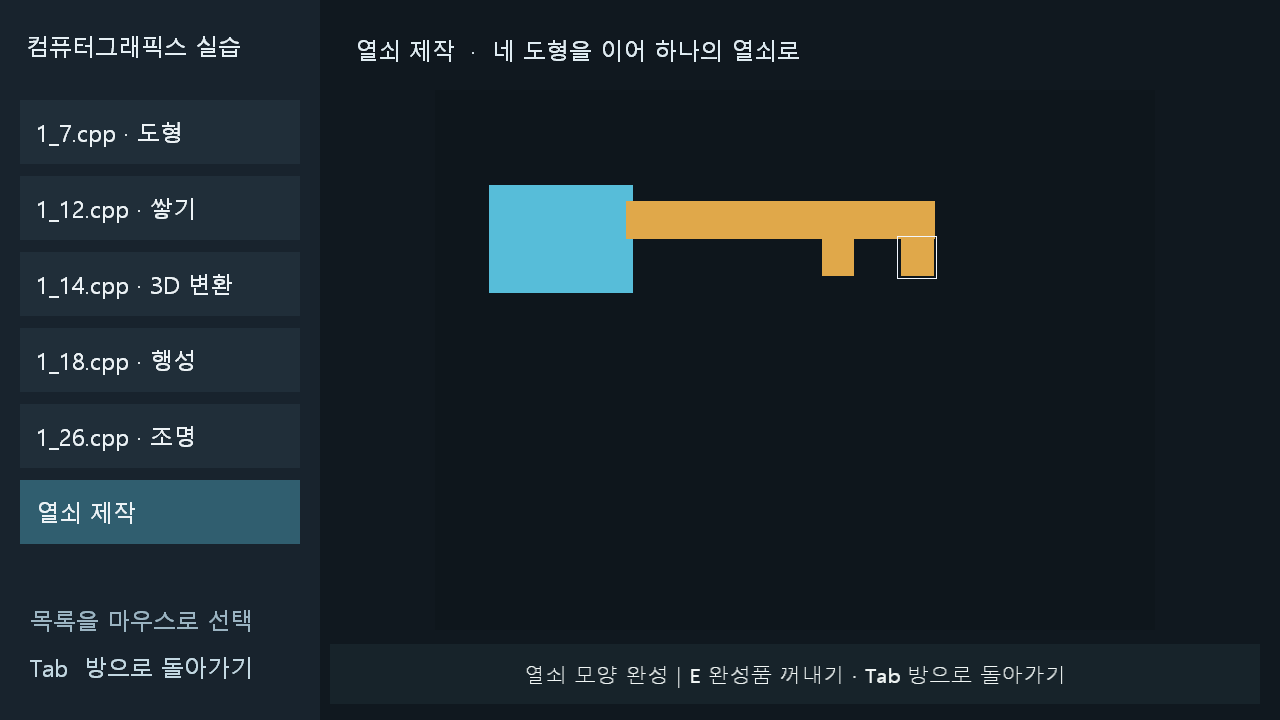
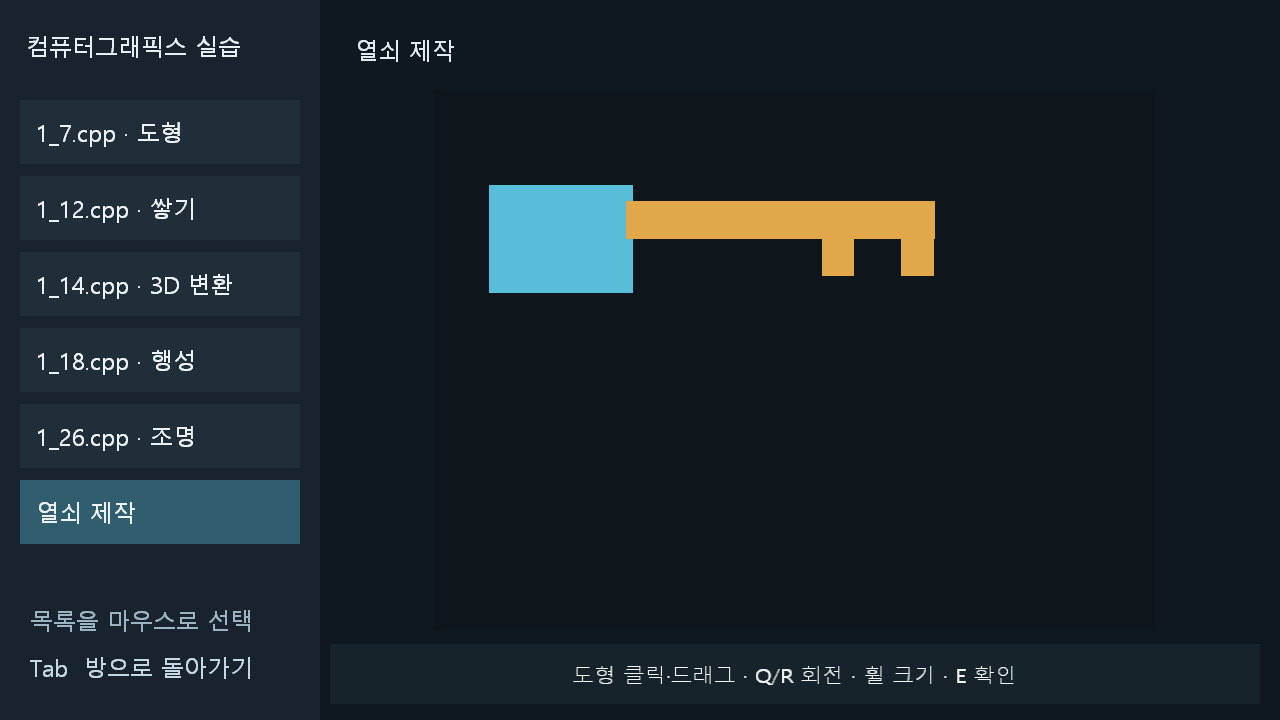
refactor: 내 방 퍼즐 설명과 정답 가이드 표시 제거

Changed region(s): [[0.4062, 0.9167, 0.8125, 0.9472], [0.375, 0.0611, 0.625, 0.0917]]

diff --git a/rooms/home/ComputerScreen.cpp b/rooms/home/ComputerScreen.cpp
@@ -189,7 +189,7 @@ GLuint workspaceTexture(int selected) {
     const auto text=[&](const wchar_t* value,RECT rect,COLORREF color) { SetTextColor(dc,color); DrawTextW(dc,value,-1,&rect,DT_VCENTER|DT_SINGLELINE|DT_NOPREFIX); };
     text(L"컴퓨터그래픽스 실습",{26,22,310,70},RGB(229,239,244));
     constexpr const wchar_t* names[6]{L"1_7.cpp · 도형",L"1_12.cpp · 쌓기",L"1_14.cpp · 3D 변환",L"1_18.cpp · 행성",L"1_26.cpp · 조명",L"열쇠 제작"};
-    constexpr const wchar_t* captions[6]{L"실습 1_7  ·  점 / 선 / 삼각형 / 사각형",L"실습 1_12  ·  움직이는 사각형 맞추기",L"실습 1_14  ·  이동 / 회전 / 깊이",L"실습 1_18  ·  부모와 자식의 변환",L"실습 1_26  ·  Phong 조명과 광원 공전",L"열쇠 제작  ·  네 도형을 이어 하나의 열쇠로"};
+    constexpr const wchar_t* captions[6]{L"실습 1_7  ·  점 / 선 / 삼각형 / 사각형",L"실습 1_12  ·  움직이는 사각형 맞추기",L"실습 1_14  ·  이동 / 회전 / 깊이",L"실습 1_18  ·  부모와 자식의 변환",L"실습 1_26  ·  Phong 조명과 광원 공전",L"열쇠 제작"};
     for(int i=0;i<6;++i) {
         fill({20,100+i*76,300,164+i*76},i==selected?RGB(48,94,111):RGB(32,46,57));
         text(names[i],{36,100+i*76,294,164+i*76},RGB(236,242,245));
@@ -247,10 +247,6 @@ ComputerScreen::~ComputerScreen() {
     if (depth_) glDeleteRenderbuffers(1, &depth_);
     if (program_) glDeleteProgram(program_);
     if (vertexArray_) glDeleteVertexArrays(1, &vertexArray_);
-    for (const GLuint texture : {holdingGuide_, completeKeyGuide_, socketGuide_, miniatureGuide_,
-                                 keyReadyLabel_, keyTakenLabel_, keyRejectedLabel_}) {
-        if (texture) glDeleteTextures(1, &texture);
-    }
     glDeleteTextures(static_cast<GLsizei>(workspaceLabels_.size()),workspaceLabels_.data());
     glDeleteTextures(static_cast<GLsizei>(helpLabels_.size()),helpLabels_.data());
 }
@@ -308,34 +304,26 @@ void main() { pixel = texture(image, vec2(uv.x, flip ? 1.0-uv.y : uv.y)); }
     glRenderbufferStorage(GL_RENDERBUFFER, GL_DEPTH_COMPONENT24, textureWidth, textureHeight);
     glFramebufferRenderbuffer(GL_FRAMEBUFFER, GL_DEPTH_ATTACHMENT, GL_RENDERBUFFER, depth_);
     const bool complete = glCheckFramebufferStatus(GL_FRAMEBUFFER) == GL_FRAMEBUFFER_COMPLETE;
-    holdingGuide_ = guideTexture(L"E 놓기");
-    completeKeyGuide_ = guideTexture(L"완성된 열쇠 | E 놓기 · 열쇠 구멍을 보고 E 끼우기");
-    socketGuide_ = guideTexture(L"열쇠 구멍 | 장롱을 보고 E 붙이기 · 다른 곳에서 E 놓기");
-    miniatureGuide_ = guideTexture(L"미니어처 | E 놓기 · 휠 회전 · 안의 물건은 내려놓은 뒤 조작");
     constexpr const wchar_t* help[6]{
         L"P 점 · E 선 · T 삼각형 · R 사각형 | 클릭 선택 · WASD/IJKL 이동 · 1~4 전체 · C 비우기",
         L"두 사각형이 점선 안에 들어오면 Enter · R 다시 시작",
         L"C 육면체 / P 사각뿔 · X/Y 회전(Shift 반대) · 방향키 이동 · W/Shift+W · H 깊이 · S 초기화",
         L"WASD 이동 · +/- 깊이 · P/Shift+P 투영 · M/Shift+M 와이어 · 1/2/3 애니메이션",
         L"N 도형 · M 조명 · Y 회전 · R/Shift+R 광원 공전 · Z/Shift+Z 광원 거리",
-        L"도형 클릭·드래그 · Q/R 회전 · 휠 크기 | 머리·몸통·이빨 둘을 이어 열쇠 만들기 · E 확인"};
+        L"도형 클릭·드래그 · Q/R 회전 · 휠 크기 · E 확인"};
     for (int i=0;i<6;++i) {
         workspaceLabels_[i]=workspaceTexture(i);
         helpLabels_[i]=guideTexture(help[i]);
         if (!workspaceLabels_[i] || !helpLabels_[i]) return false;
     }
-    keyReadyLabel_=guideTexture(L"열쇠 모양 완성 | E 완성품 꺼내기 · Tab 방으로 돌아가기");
-    keyTakenLabel_=guideTexture(L"완성된 열쇠를 방으로 꺼냄 | 다른 실습 선택 · Tab 방으로 돌아가기");
-    keyRejectedLabel_=guideTexture(L"머리에 몸통을 잇고, 몸통 아래에 이빨 둘 붙이기 | 회전·크기도 확인 · E 다시 확인");
-    return complete && holdingGuide_ && completeKeyGuide_ && socketGuide_ && miniatureGuide_ &&
-           keyReadyLabel_ && keyTakenLabel_ && keyRejectedLabel_;
+    return complete;
 }
 
 void ComputerScreen::keyInput(int key,int action,int mods) {
-    labs_.key(key,action,mods); rejected_=false; dirty_=true;
+    labs_.key(key,action,mods); dirty_=true;
 }
 void ComputerScreen::selectLesson(int lesson) {
-    labs_.select(lesson); rejected_=false; dirty_=true;
+    labs_.select(lesson); dirty_=true;
 }
 int ComputerScreen::selectedLesson() const { return labs_.selected(); }
 void ComputerScreen::clearInput() { labs_.clearInput(); dirty_=true; }
@@ -356,16 +344,16 @@ void ComputerScreen::mouseButton(int button,int action,int) {
             selectLesson(i); return;
         }
     }
-    labs_.mouse(button,action); rejected_=false; dirty_=true;
+    labs_.mouse(button,action); dirty_=true;
 }
-void ComputerScreen::scroll(double amount) { labs_.scroll(amount); rejected_=false; dirty_=true; }
+void ComputerScreen::scroll(double amount) { labs_.scroll(amount); dirty_=true; }
 void ComputerScreen::update(float elapsed) { if (labs_.update(elapsed)) dirty_=true; }
 ComputerScreen::Action ComputerScreen::confirm() {
     if (labs_.selected()!=5 || labs_.keyTaken()) return Action::None;
-    if (!labs_.keyReady()) { rejected_=true; dirty_=true; return Action::None; }
+    if (!labs_.keyReady()) return Action::None;
     return Action::TakeCompleteKey;
 }
-void ComputerScreen::consumeKey() { labs_.consumeKey(); rejected_=false; dirty_=true; }
+void ComputerScreen::consumeKey() { labs_.consumeKey(); dirty_=true; }
 bool ComputerScreen::keyTaken() const { return labs_.keyTaken(); }
 
 void ComputerScreen::drawCube(const glm::mat4& viewProjection, const glm::mat4& model) const {
@@ -373,10 +361,6 @@ void ComputerScreen::drawCube(const glm::mat4& viewProjection, const glm::mat4& 
     glPolygonMode(GL_FRONT_AND_BACK, GL_FILL);
     renderer_.begin(viewProjection);
     renderer_.drawMovableMesh(0, 36, model, glm::vec3{1.0f});
-    glDepthFunc(GL_LEQUAL);
-    glDepthMask(GL_FALSE);
-    glPolygonMode(GL_FRONT_AND_BACK, GL_LINE);
-    renderer_.drawMovableMesh(0, 36, model, {.12f,.24f,.29f});
 }
 
 void ComputerScreen::drawKeyPiece(const glm::mat4& viewProjection, const glm::mat4& model) const {
@@ -422,12 +406,7 @@ void ComputerScreen::renderTexture() const {
     labs_.draw();
     glDisable(GL_SCISSOR_TEST); glDisable(GL_DEPTH_TEST);
     glViewport(0,0,textureWidth,textureHeight); glPolygonMode(GL_FRONT_AND_BACK,GL_FILL);
-    GLuint help=helpLabels_[labs_.selected()];
-    if(labs_.selected()==5) {
-        if(labs_.keyTaken()) help=keyTakenLabel_;
-        else if(rejected_) help=keyRejectedLabel_;
-        else if(labs_.keyReady()) help=keyReadyLabel_;
-    }
+    const GLuint help=helpLabels_[labs_.selected()];
     // Footer uses the same top-left layout as pointer hit-testing.
     auto footer=glm::translate(glm::mat4{1},{2*795.0f/textureWidth-1,1-2*674.0f/textureHeight,0});
     footer=glm::scale(footer,{930.0f*2/textureWidth,60.0f*2/textureHeight,1});
@@ -468,34 +447,4 @@ void ComputerScreen::draw(const glm::mat4& viewProjection) const {
     model[2] = {-1.0f,0.0f,0.0f,0.0f};
     model[3] = {center,1.0f};
     drawTexture(color_, viewProjection * model, false);
-}
-
-void ComputerScreen::drawGuide(bool active,bool holding,bool holdingKey) const {
-    if (active) drawWorkspace();
-    else if (holding || holdingKey) drawLabel(holdingGuide_);
-}
-
-void ComputerScreen::drawCarryGuide(CarryHint hint) const {
-    switch (hint) {
-    case CarryHint::Common: drawLabel(holdingGuide_); break;
-    case CarryHint::CompleteKey: drawLabel(completeKeyGuide_); break;
-    case CarryHint::Socket: drawLabel(socketGuide_); break;
-    case CarryHint::Miniature: drawLabel(miniatureGuide_); break;
-    case CarryHint::None: break;
-    }
-}
-
-void ComputerScreen::drawLabel(GLuint texture) const {
-    const GlState state;
-    GLint viewport[4]{};
-    glGetIntegerv(GL_VIEWPORT, viewport);
-    if (viewport[2] <= 0 || viewport[3] <= 0) return;
-    const float width = std::min(static_cast<float>(guideWidth), viewport[2] * .94f);
-    const float height = width * guideHeight / guideWidth;
-    auto model = glm::translate(glm::mat4{1.0f}, {0.0f,-1.0f+(height+24.0f)/viewport[3],0.0f});
-    model = glm::scale(model, {width*2.0f/viewport[2],height*2.0f/viewport[3],1.0f});
-    glDisable(GL_DEPTH_TEST);
-    glDisable(GL_SCISSOR_TEST);
-    glPolygonMode(GL_FRONT_AND_BACK, GL_FILL);
-    drawTexture(texture, model, true);
 }

diff --git a/rooms/home/HomeRoom.cpp b/rooms/home/HomeRoom.cpp
@@ -1611,9 +1611,7 @@ void HomeRoom::drawRoom(const glm::mat4& model, bool miniature) const {
             latchModel = glm::rotate(latchModel, glm::radians(90.0f), {0.0f, 1.0f, 0.0f});
         }
         latchModel = glm::translate(latchModel, latchCenter - door.center);
-        drawHomeMesh(renderer_, HomeMesh::LatchMounts, latchModel,
-                     latchReleased_ && latchTravel_ >= latchOpenTravel
-                         ? glm::vec3{0.45f, 1.30f, 0.70f} : glm::vec3{1.0f});
+        drawHomeMesh(renderer_, HomeMesh::LatchMounts, latchModel);
         latchModel = glm::translate(latchModel, {-latchTravel_, 0.0f, 0.0f});
         drawHomeMesh(renderer_, HomeMesh::LatchBolt, latchModel);
     }
@@ -1677,13 +1675,9 @@ void HomeRoom::draw(const glm::mat4& viewProjection, const glm::vec3& eye, const
             renderer_.drawBox(center + direction * 0.30f, {0.13f, 0.13f, 0.13f}, {1.0f, 0.79f, 0.30f});
         }
     } else if (held_ == HeldItem::Door) {
-        if (canFitDoor(eye, direction)) {
-            drawDoor(renderer_, {door.center - direction * 0.04f, door.size}, {0.68f, 1.0f, 0.75f});
-        } else {
-            const glm::vec3 center = eye + direction * 1.15f + carrySide(direction) * 0.32f - glm::vec3{0.0f, 0.23f, 0.0f};
-            const float scale = std::clamp(doorRatio_ * doorWheelScale_ * 1.15f, 0.08f, 0.32f);
-            drawDoor(renderer_, {center, door.size * scale}, glm::vec3{1.0f});
-        }
+        const glm::vec3 center = eye + direction * 1.15f + carrySide(direction) * 0.32f - glm::vec3{0.0f, 0.23f, 0.0f};
+        const float scale = std::clamp(doorRatio_ * doorWheelScale_ * 1.15f, 0.08f, 0.32f);
+        drawDoor(renderer_, {center, door.size * scale}, glm::vec3{1.0f});
     }
     if (computerCube_) {
         auto model = glm::translate(glm::mat4{1.0f}, computerCube_->center);
@@ -1703,10 +1697,4 @@ void HomeRoom::draw(const glm::mat4& viewProjection, const glm::vec3& eye, const
         if (cabinetOpen_) computer_.drawCompleteKey(viewProjection,homeModel()*portableModel(completeKeyObject));
     }
     computer_.draw(viewProjection);
-    if (heldPortable_ >= 0) {
-        const auto hint = heldPortable_ == socketObject ? ComputerScreen::CarryHint::Socket
-                        : heldPortable_ == completeKeyObject ? ComputerScreen::CarryHint::CompleteKey
-                                                            : ComputerScreen::CarryHint::Miniature;
-        computer_.drawCarryGuide(hint);
-    } else if (held_ == HeldItem::Cube) computer_.drawCarryGuide(ComputerScreen::CarryHint::Common);
 }

diff --git a/rooms/home/ComputerScreen.h b/rooms/home/ComputerScreen.h
@@ -8,7 +8,6 @@
 class ComputerScreen {
 public:
     enum class Action { None, TakeCompleteKey };
-    enum class CarryHint { None, Common, CompleteKey, Socket, Miniature };
     ComputerScreen() = default;
     ComputerScreen(const ComputerScreen&) = delete;
     ComputerScreen& operator=(const ComputerScreen&) = delete;
@@ -30,15 +29,12 @@ public:
     void drawCube(const glm::mat4& viewProjection, const glm::mat4& model) const;
     void drawKeyPiece(const glm::mat4& viewProjection, const glm::mat4& model) const;
     void drawCompleteKey(const glm::mat4& viewProjection, const glm::mat4& model) const;
-    void drawGuide(bool active, bool holding, bool holdingKey = false) const;
-    void drawCarryGuide(CarryHint hint) const;
     void clearInput();
     static constexpr glm::vec3 center{5.505f, 1.85f, 3.0f};
 
 private:
     void renderTexture() const;
     void drawTexture(GLuint texture, const glm::mat4& transform, bool flip) const;
-    void drawLabel(GLuint texture) const;
 
     BoxRenderer renderer_;
     CourseworkLabs labs_;
@@ -47,19 +43,11 @@ private:
     GLuint depth_ = 0;
     GLuint program_ = 0;
     GLuint vertexArray_ = 0;
-    GLuint holdingGuide_ = 0;
-    GLuint completeKeyGuide_ = 0;
-    GLuint socketGuide_ = 0;
-    GLuint miniatureGuide_ = 0;
     std::array<GLuint, 6> workspaceLabels_{};
     std::array<GLuint, 6> helpLabels_{};
-    GLuint keyReadyLabel_ = 0;
-    GLuint keyTakenLabel_ = 0;
-    GLuint keyRejectedLabel_ = 0;
     GLint transform_ = -1;
     GLint flip_ = -1;
     glm::vec2 pointer_{-1.0f};
     bool canvasPointer_ = false;
-    bool rejected_ = false;
     mutable bool dirty_ = true;
 };

diff --git a/rooms/home/CourseworkLabs.cpp b/rooms/home/CourseworkLabs.cpp
@@ -479,7 +479,6 @@ void CourseworkLabs::drawAssembly() const {
         const auto& part=keyParts_[i];
         const auto transform=model({part.center,0},{0,0,glm::degrees(part.angle)},glm::vec3{part.scale,part.scale,1});
         rect({0,0},part.size,i==0?glm::vec3{.34f,.74f,.85f}:glm::vec3{.88f,.66f,.29f},transform);
-        if (i==partSelection_) rect({0,0},part.size+glm::vec2{.018f},{.95f,.97f,1},transform,true);
     }
 }
 void CourseworkLabs::draw() const {

diff --git a/docs/tasks/B-030.md b/docs/tasks/B-030.md
@@ -1,0 +1,34 @@
+# B-030 — F4 퍼즐 설명·가이드 표시 제거
+
+## 작업 시작
+
+- 2026-11-20 / 최윤서 작업 지원 / yoon778 03d6b0c 기준 / 완료
+- 요청: 설명 글과 선으로 정답을 쉽게 알려주지 않도록 제거
+- 사용자 확인: 수업 조작법·파일 목록 유지
+- 범위: F4 컴퓨터의 열쇠 설명/완성/오답 문구·선택 윤곽선, 물건별 반복 HUD, 문짝 정답 위치 미리보기와 빗장 완료 강조색. 조립·출력·설치·상호작용 판정은 유지
+- 기존 수업 5개의 선 도형·점선·축·궤도·와이어는 실습 내용이므로 보존. 모형 명패는 장소 이름이며 풀이 설명이 아님. 학교·군대·main·Player·Blender 모델은 수정하지 않음
+- 확인: AGENTS·TEAM·협업 규칙·기획서·B-028/029·공유 GIT-20261120-02. 시작 작업 트리 깨끗함, 사용자가 main을 합친 03d6b0c 보존
+- 완료 기준: 기본 조작·파일 선택을 보존하면서 정답을 알려주는 표시가 나오지 않음, 빌드와 실제 OpenGL 캡처 확인
+- 표시 변경이므로 새 테스트나 전체 75/174검사 반복 없이 기존 캡처 도구로 필요한 화면만 확인
+- 작업 후 기록과 변경을 yoon778에 커밋·푸시. main 통합 미요청
+
+## 변경·검증·인계
+
+- ComputerScreen: 조립 순서 설명·완성/오답/꺼냄 상태 문구·물건별 들기 HUD와 관련 텍스처/표시 API 제거. 파일 목록·수업 제목·기본 조작법은 유지. 열쇠 확인은 E를 눌렀을 때만 판정
+- CourseworkLabs: 새 열쇠 제작 화면의 흰 선택 윤곽선만 제거. 선택/끌기/회전·크기 조절과 다섯 원본 실습의 도형선·점선·축·궤도는 보존
+- HomeRoom: 정답 문틀에 띄우던 녹색 문 미리보기·빗장 완료 강조색·들고 있는 물건 안내 호출 제거. 문짝을 손에 들고 있는 실제 표현과 설치/빗장 판정은 유지
+- 사용하지 않는 보조 큐브 외곽선 렌더도 제거. Blender 실제 형상·모형 명패·열린 출구의 조명 표현은 변경하지 않음
+- Debug·Release x64 빌드 통과. Release는 검증 명령에만 WholeProgramOptimization=false 지정, 기본 LTCG 링크 완료를 뜻하지 않음
+- 기존 도구의 표시 전용 3프레임 캡처: 미완성·완성 열쇠 화면에 상태 문구/흰 선 없음, 파일 목록/조작법 유지. 실제 공개 마우스 조립 후 E로 완성키가 출력되어 active=0/held=1/keyTaken=1 관측, 월드 HUD 없음. 3개 draw OpenGL 오류 없음
+- 문 미리보기·빗장 강조색 제거는 소스 대조로 확인. 표시 변경이므로 전체 75/174개 회귀 검사와 새 테스트는 실행하지 않음. 사람 직접 조작·발견 난이도 평가는 미확인
+- 임시 캡처/로그: %TEMP%/out-of-scale-home-hint-visual-20261120/ — compile-driver.cmd → link-run.cmd, route-results.txt 및 workshop-unsolved.png/workshop-solved.png/world-held-complete-key.png
+- 수정 파일: rooms/home/ComputerScreen.h/.cpp, CourseworkLabs.cpp, HomeRoom.cpp, design/key-puzzle-preview.png, illusion-escape-game-plan.md, 이 기록
+- 새누 인계: F4 내부 표시 전용 변경, 학교·군대·main·Player·공용 입력 API 변경 없음. 제거된 ComputerScreen 들기 안내 API는 Home 전용이며 제품 내 다른 호출 없음 확인
+- 이 기록과 작업 파일을 함께 yoon778에 커밋해 origin/yoon778에 공유. main 병합 미요청
+
+## AI 활용
+
+- 사용자 확인에 따라 수업 조작법과 퍼즐 풀이 힌트를 분리해 표시 코드를 정리하고 실제 OpenGL 프레임 확인
+- 사람이 새 화면을 직접 검토했는지는 미확인
+
+![풀이 설명과 완성 표시 없는 열쇠 제작](../../rooms/home/design/key-puzzle-preview.png)

diff --git a/illusion-escape-game-plan.md b/illusion-escape-game-plan.md
@@ -189,6 +189,8 @@
 
 F4는 Blender로 만든 가구와 장롱 뒤 비밀 전시실을 적용한다. 내 방 모형은 확장된 실제 방을 0.075배로 축소하며, 꺼내 돌려 놓아도 책장·벽·빗장·문 상태가 실물에 반영된다. 전시판 자체 이동은 전시 위치만 바꾼다. 방에서는 E로 그림 열기·집기·놓기·구멍판 설치·열쇠 삽입·빗장·문을 조작하고, 좌클릭으로 RPG를 발사한다. 휠은 모형 회전과 문짝 확대에 사용한다. 학교·회사 원본 모형 연결과 스탠드 조명 연동은 후속 작업이다.
 
+퍼즐의 조립법·정답/오답/완성 문구, 물건을 들었을 때의 사용처 안내, 열쇠 도형 선택 윤곽선, 문짝 정답 위치의 녹색 미리보기와 빗장 완료 강조색은 표시하지 않는다. 플레이어는 실제 물건의 모양·변화와 직접 조작한 결과로 판단한다. 컴퓨터 파일 목록·수업 조작법·메뉴와 원본 실습의 축/궤도/점선은 유지한다. 표시 변경은 [B-030](docs/tasks/B-030.md)에 기록한다.
+
 [내 방 Blender 원본](<rooms/home/design/내 방.blend>) · [게임 화면](rooms/home/design/game-preview.png) · [모델링 작업 기록](docs/tasks/B-020.md)
 
 ### 컴퓨터 화면과 실제 물체
